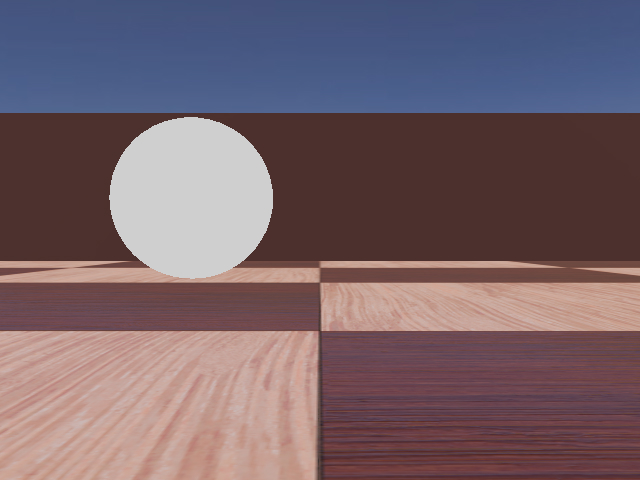
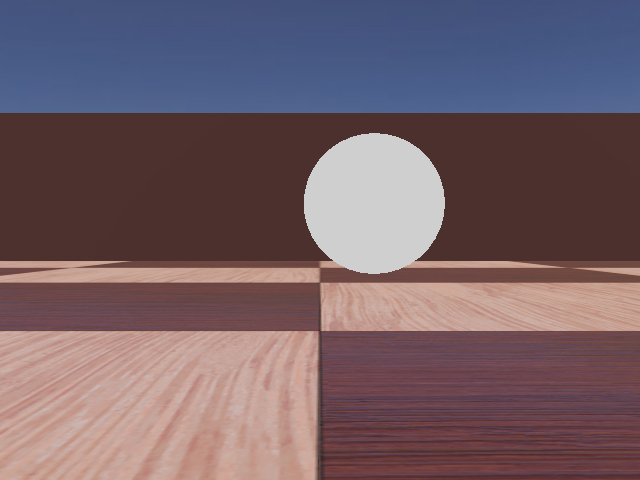
CS3630 Project 1

Changed region(s): [[0.1562, 0.2188, 0.4375, 0.5938], [0.4688, 0.2812, 0.7188, 0.5938]]

diff --git a/Spring_25/CS3630/Project_1/controllers/proj1_vision_lidar_controller/camera_and_lidar.py b/Spring_25/CS3630/Project_1/controllers/proj1_vision_lidar_controller/camera_and_lidar.py
@@ -18,23 +18,53 @@ def camera_and_lidar_calculation(image, camera_fov, object_diameter, lidar_data)
         camera_fov: The field of view of the camera in radians.
         object_diameter: The expected diameter of the object in meters.
         lidar_data: An array representing LiDAR distance data indexed by angle 
-                                  in degrees, where each element corresponds to the distance 
-                                  at a specific angle.
+                    in degrees, where each element corresponds to the distance 
+                    at a specific angle.
 
     Returns:
         lidar_distance: The distance to the detected object from the LiDAR sensor in meters.
         object_shape: A string indicating the shape of the detected object ("sphere" or "disk").
     """
 
-    ###########################################################################
-    # TODO: Student code begins
-    ###########################################################################
-    
-    # Remove this!
-    raise NotImplementedError
-        
-    ###########################################################################
-    # Student code ends
-    ###########################################################################
+    shape = detect_circle(image)
 
-    return lidar_distance, object_shape
+    if shape is None or len(shape) == 0:
+        return None
+
+    x_center, y_center, radius = shape[0]
+
+    image_width = image.shape[1]
+    x_relative = (x_center - (image_width / 2)) / (image_width / 2)
+    
+    x_translation = x_center - (image_width / 2) + (0.03 * image_width)
+    x_relative = x_translation / (image_width / 2)
+    angle_degrees = x_relative * (camera_fov / 2) * (180 / math.pi)
+
+    lidar_center_idx = int((angle_degrees / 360.0) * len(lidar_data))
+    lidar_center_idx = max(0, min(len(lidar_data) - 1, lidar_center_idx))
+
+    lidar_range = 7
+    lidar_indices = [max(0, lidar_center_idx - i) for i in range(-lidar_range, lidar_range + 1)]
+    lidar_readings = np.array([lidar_data[i] for i in lidar_indices if lidar_data[i] > 0])
+
+    if len(lidar_readings) == 0:
+        return None
+
+    median_distance = np.median(lidar_readings)
+
+    refined_distances = [d for d in lidar_readings if abs(d - median_distance) < 0.1 * median_distance]
+
+    if len(refined_distances) == 0:
+        return None
+
+    lidar_center = np.median(refined_distances) - 0.028
+
+    std = np.std(refined_distances)
+    threshold = 0.006
+
+    if std > threshold:
+        object_shape = "sphere"
+    else:
+        object_shape = "disk"
+
+    return lidar_center, object_shape
